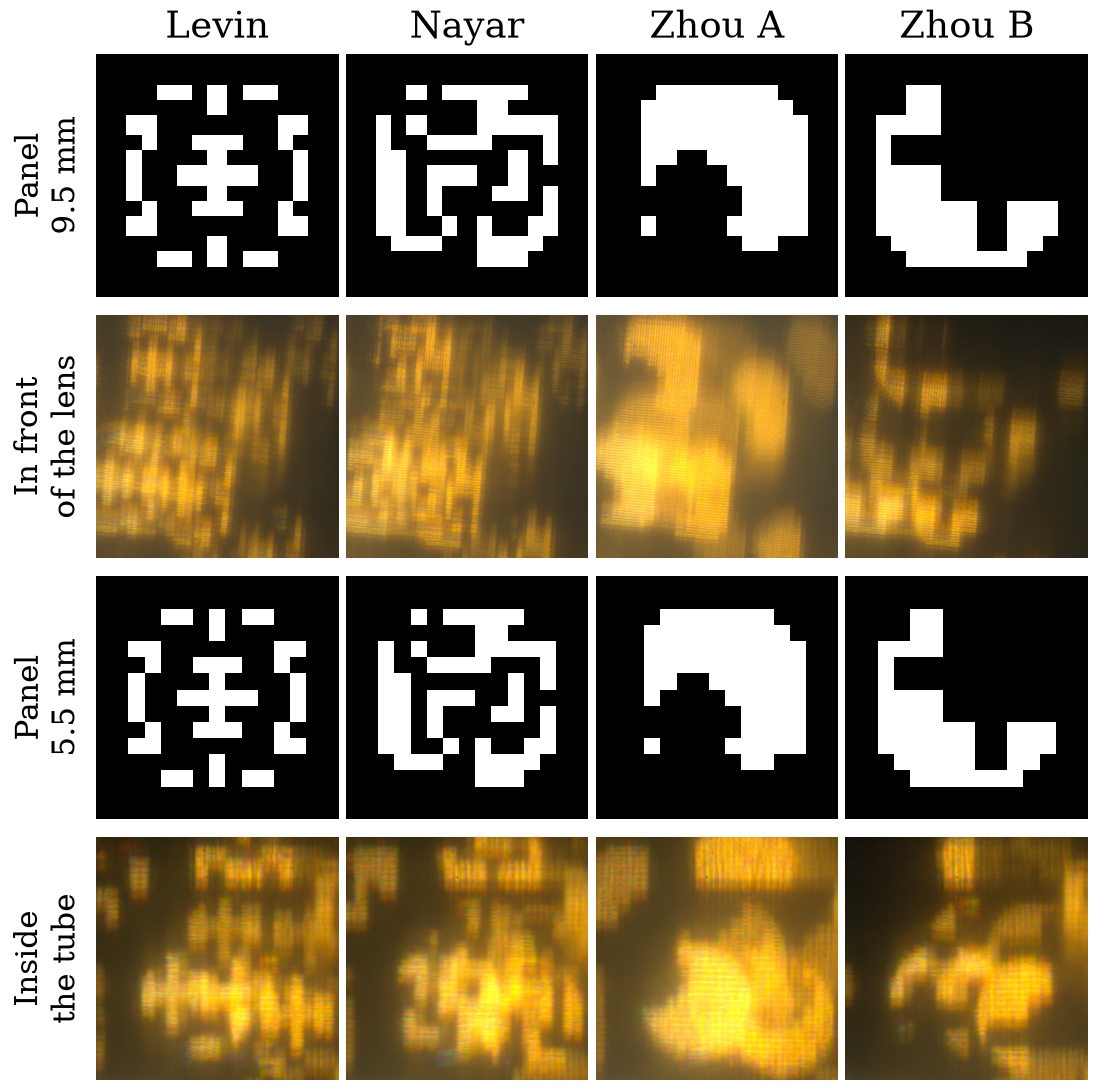
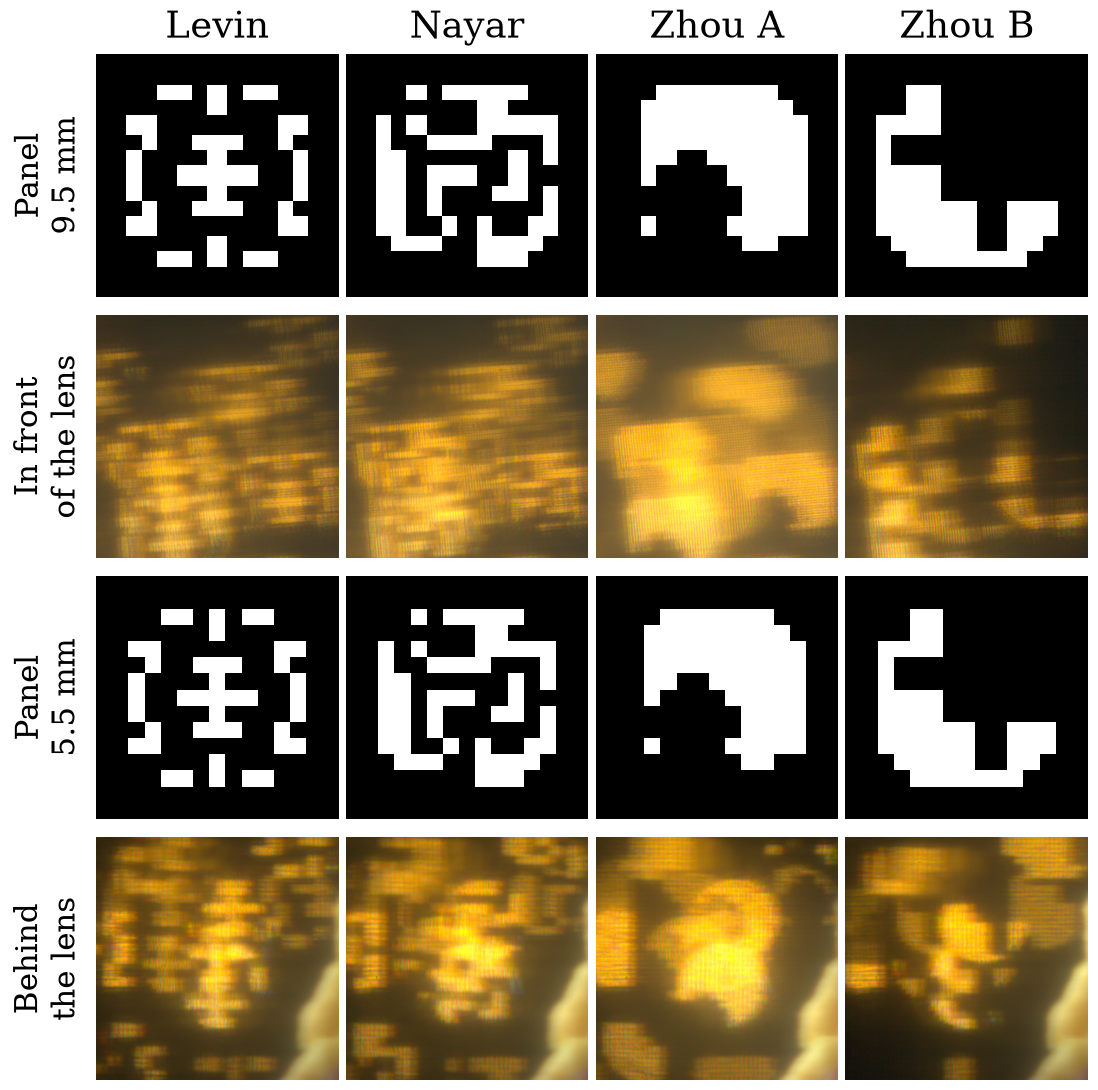
Turn the bokeh crops to face the same way as the pattern and call the inside position behind the lens

Changed region(s): [[0.0, 0.7486, 0.9909, 0.9982], [0.0619, 0.2807, 0.9909, 0.5303], [0.9599, 0.3119, 0.9909, 0.3743]]

diff --git a/App/Processing/III-Custom_Bokeh/bokeh_figure.py b/App/Processing/III-Custom_Bokeh/bokeh_figure.py
@@ -4,6 +4,8 @@ An out-of-focus light takes the shape of the aperture. Every fairy light behind 
 shows the pattern the panel held. The script develops each CR2 at half size and cuts the
 same square of lights out of every photo of a panel position. It lays the cuts out under
 the pattern the panel showed, one column per pattern and one row per panel position. It
+turns each cut 90 degrees anticlockwise so the lights face the same way as the pattern and
+mirrors the cuts from in front of the lens left to right, where the lights came out reversed. It
 also writes a looping GIF per character and panel position from the full frames, which
 plays the walk cycle as the lights saw it.
 
@@ -46,7 +48,14 @@ import patterns  # noqa: E402
 # full-size px. The lights never moved within a position, so one square serves every photo. Each was
 # chosen by eye as a group of lights with the clearest gaps between them
 POSITIONS = [("outside_lens", "In front\nof the lens", (3800, 900)),
-             ("inside_lens", "Inside\nthe tube", (3300, 850))]
+             ("inside_lens", "Behind\nthe lens", (3300, 850))]
+# where a figure shows a wider square than the one the mesh is measured on: the centre as (x, y)
+# in full-size px and the side in half-size px. Behind the lens each light spreads wider, so the
+# figure zooms out there and keeps above the blurred foreground at the bottom of the frame
+SHOWN = {"inside_lens": ((3400, 1100), 1100)}
+# the positions whose cuts the figures also mirror left to right after the turn, so the lights
+# match the pattern
+MIRRORED = {"outside_lens"}
 # the file stem and the column title. A sprite stem names a frame in sprites/binary/<character>/
 SPRITES_SHOWN = [("knight_binary_walk_1", "Knight 1"), ("knight_binary_walk_2", "Knight 2"),
                  ("link_binary_attack_1", "Link 1"), ("link_binary_attack_2", "Link 2"),
@@ -156,6 +165,8 @@ def measure(captures):
             rgb, clipped = develop(path)
             crop = cut(rgb, (centre[1] / 2, centre[0] / 2), CROP)     # centre is (x, y) in full-size px
             pitch, angle = mesh_pitch(crop.mean(axis=2))
+            shown_centre, side = SHOWN.get(folder, (centre, CROP))
+            crop = cut(rgb, (shown_centre[1] / 2, shown_centre[0] / 2), side)
             frame = np.stack([np.asarray(Image.fromarray((rgb[..., k] * 65535).astype(np.uint16)).resize(GIF_SIZE, Image.BOX))
                               for k in range(3)], axis=-1).astype(np.float32) / 65535.0
             crop_white = max(crop_white, float(np.percentile(crop.mean(axis=2), 99.5)))
@@ -181,7 +192,9 @@ def figure(shown, series, out):
             ax_panel.imshow(panel(pattern_name(stem), s["pupil"]), cmap="gray", vmin=0, vmax=1,
                             interpolation="nearest")
             if stem in s["items"]:
-                ax_photo.imshow(to_u8(s["items"][stem]["crop"], s["crop_gain"]))
+                # turned 90 degrees anticlockwise so the lights face the same way as the pattern
+                img = np.rot90(to_u8(s["items"][stem]["crop"], s["crop_gain"]))
+                ax_photo.imshow(img[:, ::-1] if folder in MIRRORED else img)
             if k == 0:
                 ax_panel.set_title(title)
             if j == 0:

diff --git a/App/Processing/III-Custom_Bokeh/README.md b/App/Processing/III-Custom_Bokeh/README.md
@@ -15,7 +15,7 @@ python3 -m venv .venv
 
 `Captures/Custom_Bokeh/` holds the raw photos of 28 October 2026 as CR2, 443 MB in all.
 `outside_lens/` has the panel in front of the lens at a 9.5 mm pupil. `inside_lens/` has it
-inside the extension tube at 5.5 mm. Each folder holds the four masks and seven sprite frames:
+behind the lens in the extension tube at 5.5 mm. Each folder holds the four masks and seven sprite frames:
 Knight walk 1 and 2, Link attack 1 and 2 and Mario walk 1 to 3. Every photo is 5 s at ISO 100
 with the lens at 53 to 55 mm and its iris open. The file names read
 `<pattern>_<pupil>mm_offset_<offset>mm`, which the group typed by hand. No manifest sits beside
@@ -25,7 +25,11 @@ the photos. `inside_lens/` also holds one Mario photo at a 10 mm pupil.
 
 It develops each CR2 at half size with the camera's white balance. It cuts the same square of
 lights out of every photo of a panel position. A table at the top of the script fixes each
-square. The squares sit where the lights have clear gaps between them. The pattern rows come
+square. The squares sit where the lights have clear gaps between them. The figures show each
+square turned 90 degrees anticlockwise so the lights face the same way as the pattern. The
+lights in front of the lens came out reversed, so the figures also mirror those squares left to
+right. The mesh pitch comes from an 850 px square before the turn. Behind the lens each light
+spreads wider, so the figures show a 1,100 px square there. The pattern rows come
 from the capture app's own pattern code at the pupil in the file name and the default image
 size. The script scales each photo row to its own brightest light. The rows then compare shape
 and size and not brightness.
@@ -40,10 +44,10 @@ lens](../../../Out/Custom_Bokeh/mario_outside_lens.gif)
 *The GIF plays the three Mario walk frames as the lights show them, with the panel in front of
 the lens.*
 
-![The same walk with the panel inside the extension
-tube](../../../Out/Custom_Bokeh/mario_inside_lens.gif)
+![The same walk with the panel behind the
+lens](../../../Out/Custom_Bokeh/mario_inside_lens.gif)
 
-*The GIF plays the same walk with the panel inside the extension tube.*
+*The GIF plays the same walk with the panel behind the lens.*
 
 ## The panel's pixel grid
 
@@ -55,12 +59,12 @@ times the pupil in panel pixels gives how far the pupil spreads on the sensor.
 | Panel position | Pupil | Mesh pitch | Pupil on the sensor |
 | --- | --- | --- | --- |
 | In front of the lens | 9.5 mm, 43 panel px | 18.6 to 19.3 px | about 810 px |
-| Inside the tube | 5.5 mm, 25 panel px | 42.9 px | about 1,080 px |
+| Behind the lens | 5.5 mm, 25 panel px | 42.9 px | about 1,080 px |
 
 The grid sits about 5 degrees off the sensor's rows in front of the lens and square to them
-inside the tube. Inside the tube each panel pixel covers 2.3 times as many sensor pixels. The
-smaller pupil spreads wider than the larger one in front as a result. Nine of the eleven inside
-photos give 42.9 px. Nayar gives 46.2 px and Mario 3 gives 15 px, where a different peak won.
+behind the lens. Behind the lens each panel pixel covers 2.3 times as many sensor pixels. The
+smaller pupil spreads wider than the larger one in front as a result. Nine of the eleven photos
+behind the lens give 42.9 px. Nayar gives 46.2 px and Mario 3 gives 15 px, where a different peak won.
 
 ## Pitfalls
 
@@ -68,7 +72,7 @@ photos give 42.9 px. Nayar gives 46.2 px and Mario 3 gives 15 px, where a differ
   shape. The panel trades that for a shape it can change in a frame.
 - **Light.** The lights needed 5 s at ISO 100 through the panel. Anything that moves in that time
   blurs.
-- **Straight edges.** Inside the tube several highlights end in a straight edge that the pattern
+- **Straight edges.** Behind the lens several highlights end in a straight edge that the pattern
   does not have.
 - **No manifest.** The group named the bokeh photos by hand. Take the next set through
   `capture_series.py`. Each photo then gets a manifest with its pupil, image size and offset.
